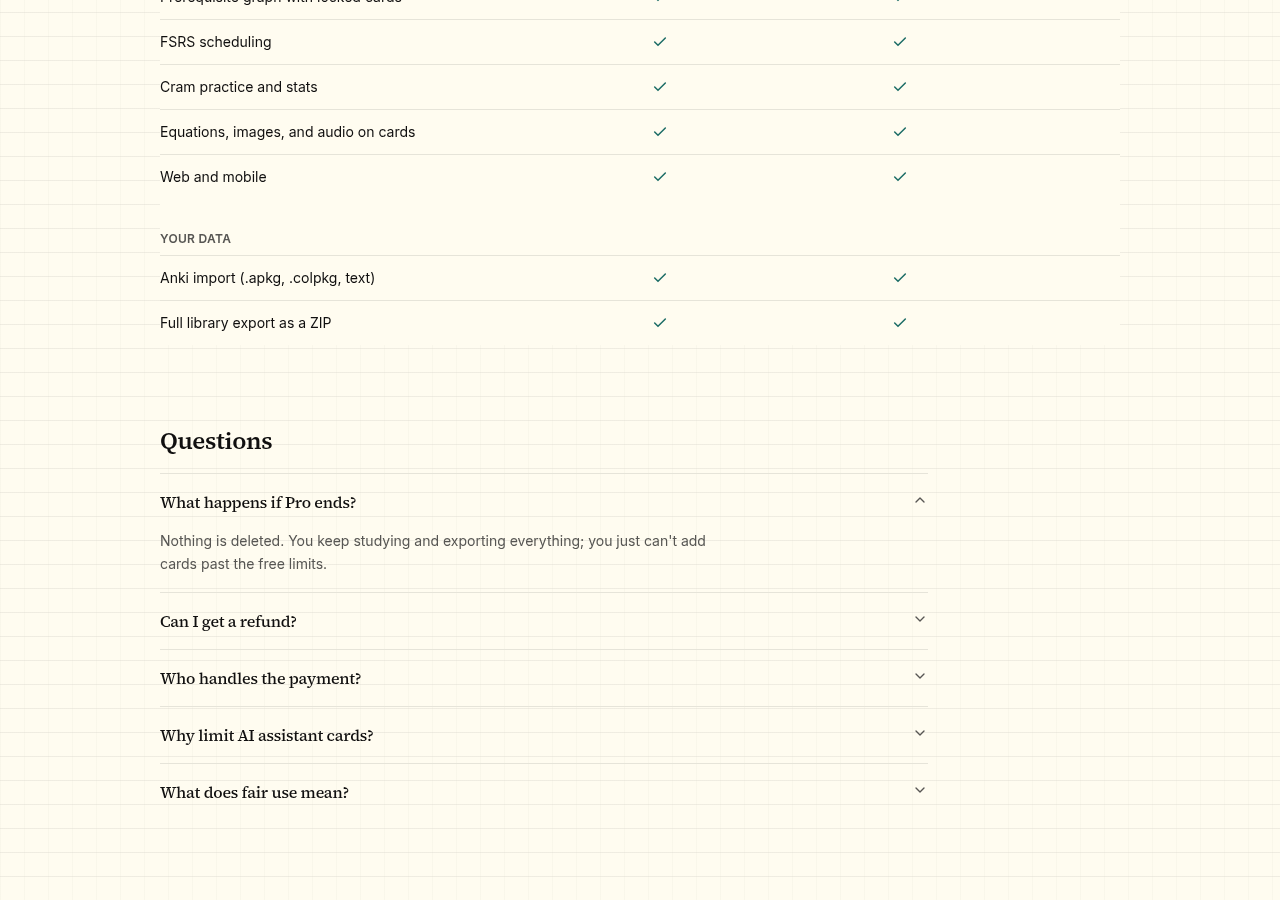
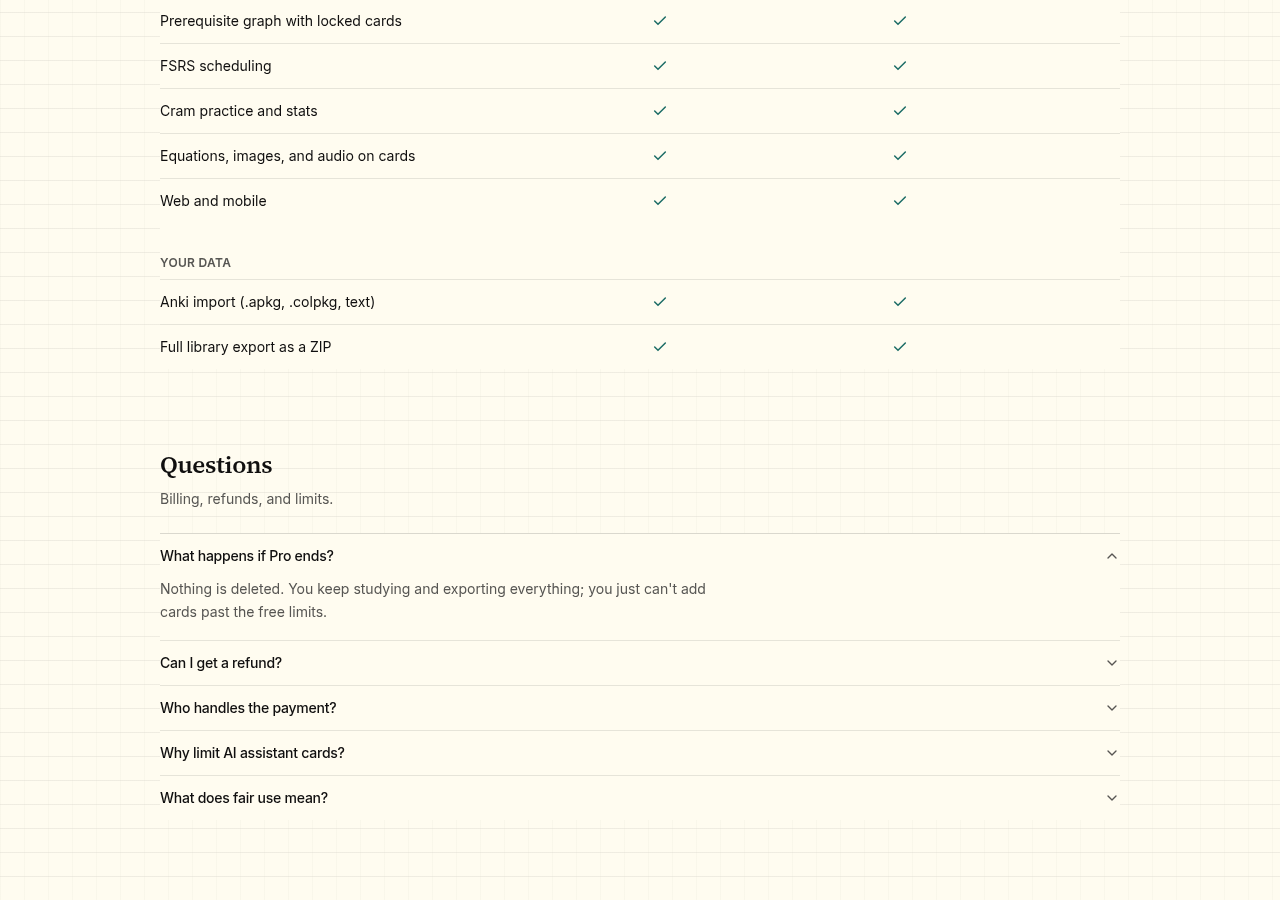
Match the pricing questions to the comparison table's width and rhythm

diff --git a/apps/web/src/components/pricing/pricing-page.tsx b/apps/web/src/components/pricing/pricing-page.tsx
@@ -397,11 +397,14 @@ export function PricingPage() {
           <h2 id="questions" className="text-2xl text-ink">
             Questions
           </h2>
-          <Accordion multiple className="mt-4 max-w-3xl border-t border-border">
+          <p className="mt-2 text-sm text-muted">Billing, refunds, and limits.</p>
+          {/* Same frame as the comparison table: full width, strong top rule,
+              hairline rows, opaque paper over the notebook grid. */}
+          <Accordion multiple className="mt-6 border-t border-border-strong bg-bg">
             {questions.map(({ q, a }) => (
               <AccordionItem key={q} value={q}>
-                <AccordionTrigger>{q}</AccordionTrigger>
-                <AccordionContent className="max-w-prose leading-relaxed text-muted">
+                <AccordionTrigger className="py-3 font-sans text-sm">{q}</AccordionTrigger>
+                <AccordionContent className="max-w-prose pb-4 leading-relaxed text-muted">
                   {a}
                 </AccordionContent>
               </AccordionItem>

diff --git a/docs/qa/2026-11-02-pricing-page.md b/docs/qa/2026-11-02-pricing-page.md
@@ -27,7 +27,10 @@ viewport, not a real device).
   unchanged. AGENTS.md says `ui/` primitives follow shadcn's Base UI variants.
 - The questions are a collapsible list built from shadcn's Accordion on Base UI
   (`components/ui/accordion.tsx`, new). All start closed, and several can be open
-  at once.
+  at once. The list uses the comparison table's frame: the same full width
+  (both span x = 160–1120 at 1280 px), a strong top rule, hairline rows with
+  the same padding and text size, an opaque paper background, and a heading
+  with a one-line subtitle.
 
 ## Steps
 
